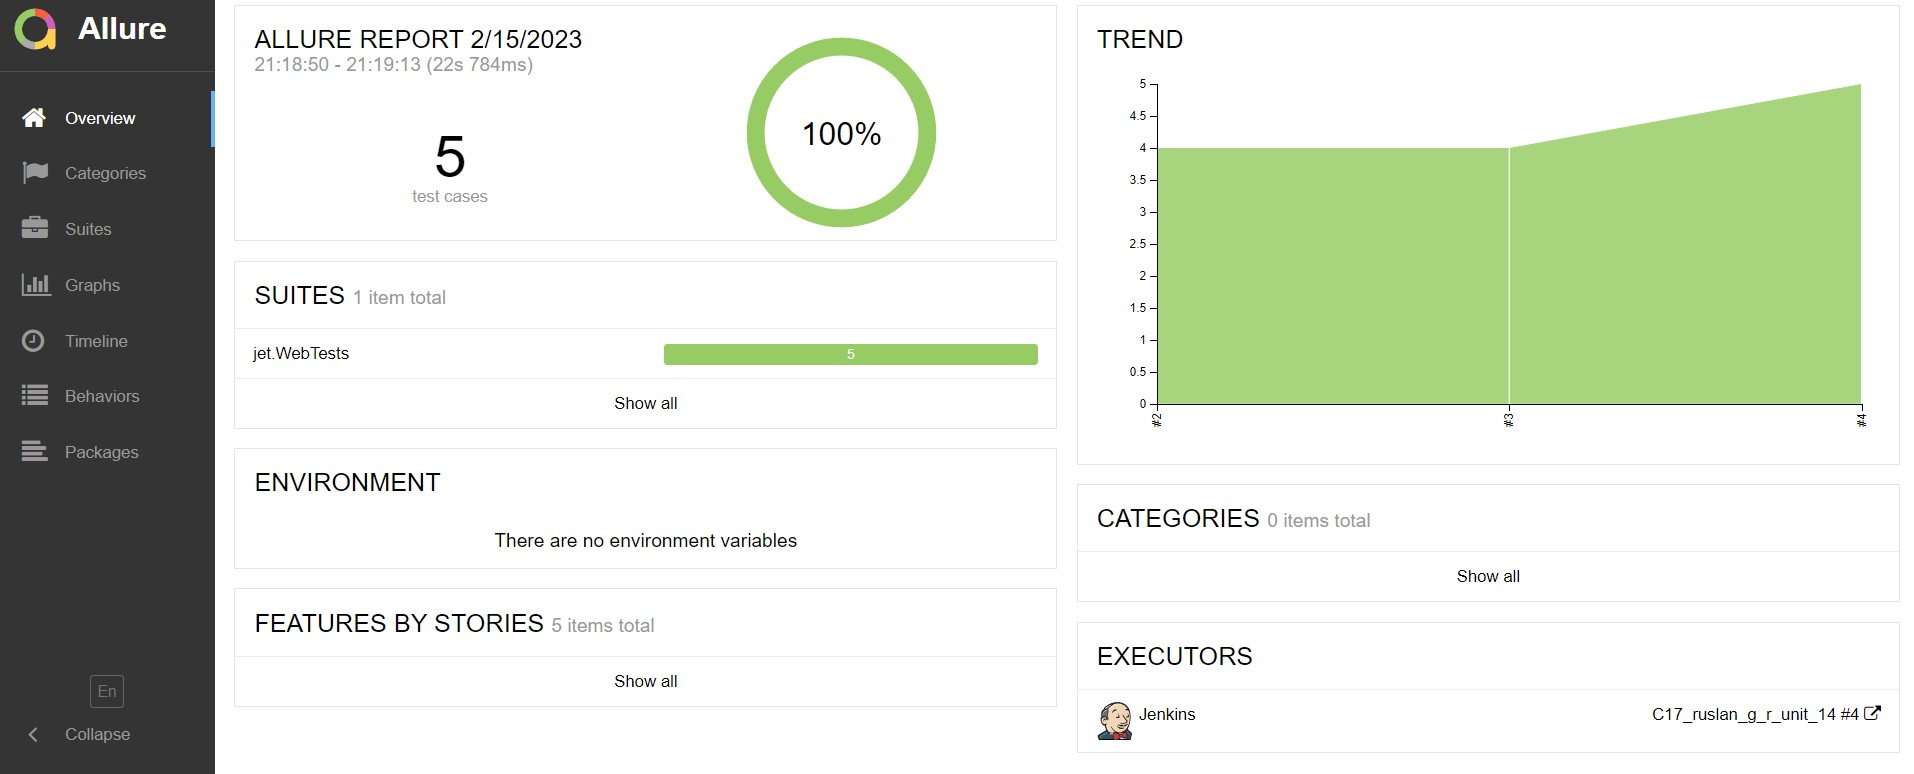
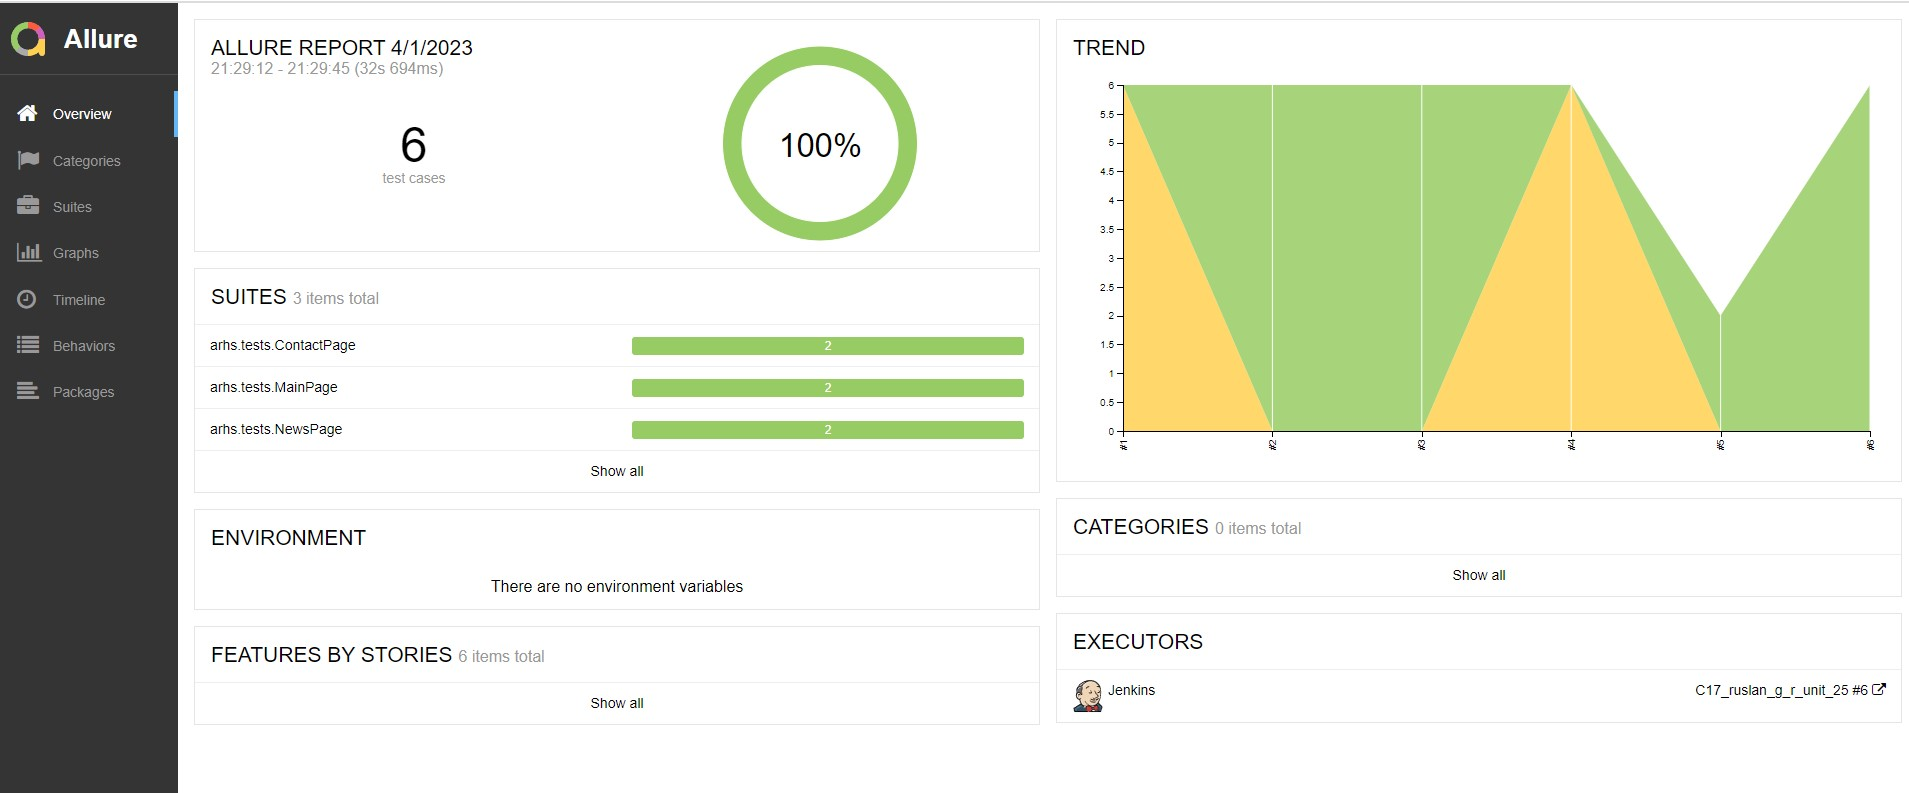
finish

diff --git a/readme.md b/readme.md
@@ -26,11 +26,6 @@
 <a href="https://https://telegram.org/"><img src="images/logo/Telegram.svg" width="50" height="50"  alt="Telegram"/></a>
 </p>
 
-## <img src="images/logo/Jenkins.svg" width="25" height="25"  alt="Jenkins"/></a> Сборка <a target="_blank" href="https://jenkins.autotests.cloud/job/C17_ruslan_g_r_unit_14/"> Jenkins </a>
-<p align="center">
-<a href="https://jenkins.autotests.cloud/job//"><img src="images/screens/Jenkins.jpg" alt="Jenkins1"/></a>
-</p>
-
 <p align="center">
 <img width="6%" title="IntelliJ IDEA" src="images/logo/Intelij_IDEA.svg">
 <img width="6%" title="Java" src="images/logo/Java.svg">
@@ -96,50 +91,44 @@ test/MainPage/ContactPage/NewsPage
 - browser (browser, chrome by default)
 
 
-```
-## <img src="images/logo/Allure.svg" width="25" height="25"  alt="Allure"/></a> Allure отчет <a target="_blank" href="https://jenkins.autotests.cloud/job/IBS_test/allure/"></a>
-```
-## ⛅: Main report
+ 
+
+## <img src="images/logo/Jenkins.svg" width="25" height="25"  alt="Jenkins"/></a> Сборка <a target="_blank" href="https://jenkins.autotests.cloud/job/C17_ruslan_g_r_unit_25/"> Jenkins </a>
 <p align="center">
-<img title="Allure Overview Dashboard" src="images/screens/Allure.jpg">
+<a href="https://jenkins.autotests.cloud/job//"><img src="images/screens/Jenkins.jpg" alt="Jenkins1"/></a>
 </p>
 
-## 🧪: Test case example
-<p align="center">
-<img title="AllureSuite" src="images/screens/AllureSuite.jpg">
-</p>
-
-## <img src="images/logo/Allure.svg" width="25" height="25"  alt="Allure_TO"/></a> Интеграция с Allure TestOps <a target="_blank" href="https://allure.autotests.cloud/project/1858/dashboards"></a>
-
-## :pinching_hand:: An example of a manual test case
-<p align="center">
-<img title="AllureTC" src="images/screens/AllureTC.jpg">
-</p>
-
-## :bar_chart:: Board
-<p align="center">
-<img title="AllureDashboard" src="images/screens/AllureDashboard.jpg">
-</p>
-
-## :runner:: Runs
-<p align="center">
-<img title="Allure Tests" src="images/screens/AllureLaunches.jpg">
-</p>
-
-## <img src="images/logo/Jira.svg" width="25" height="25"  alt="Jira"/></a> Jira integration <a target="_blank" href="https://jira.autotests.cloud/browse/HOMEWORK-519"></a>
+## <img width="4%" style="vertical-align:middle" title="Allure Report" src="images/logo/Allure.svg"> <a href="https://jenkins.autotests.cloud/job/C17_ruslan_g_r_unit_25/6/allure/">Example Allure-report</a>
+### Overview
 
 <p align="center">
-<img title="Jira" src="images/screens/jira.jpg">
+<img title="Allure Overview" src="images/screens/Allure.jpg">
 </p>
 
-## <img src="images/logo/Telegram.svg" width="25" height="25"  alt="Telegram"/></a> Telegram notifications using a bot
+### Test result
+
+<p align="center">
+<img title="Test Results in Alure" src="images/screens/AllureReportTests.jpg">
+</p>
+
+# Jira integration
+<p align="center">
+  <img src="images/screens/JiraARHS.png" alt="JiraIntegration" width="950">
+</p>
+
+
+
+### <img width="4%" style="vertical-align:middle" title="Telegram" src="images/logo/Telegram.svg"> Telegram notifications using a bot
 
 <p align="center">
 <img title="telegram" src="images/screens/telegram.jpg">
 </p>
 
-## <img src="images/logo/Selenoid.svg" width="25" height="25" alt="Jenkins"/></a> Selenoid. Test Run Example. <a target="_blank" href="https://selenoid.autotests.cloud/gif/example.gif"> </a>
 
+
+### <img width="4%" style="vertical-align:middle" title="Selenoid" src="images/logo/Selenoid.svg"> Video of an example of running a test in Selenoid
+
+A video is attached to each test in the report. One of these videos is shown below.
 <p align="center">
-<img title="Selenoid Video" src="images/gif/example.gif" width="250" height="153"  alt="video"> 
+  <img title="Selenoid Video" src="images/gifs/example.gif">
 </p>
